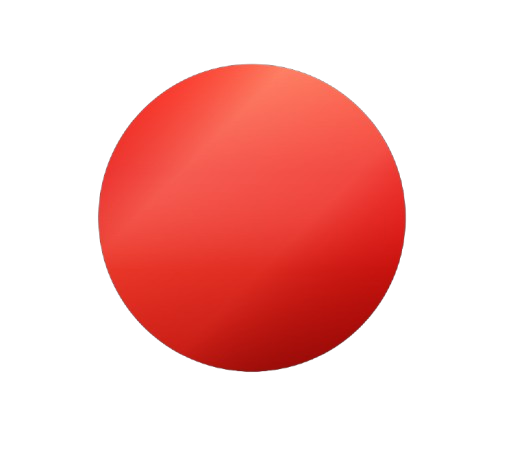
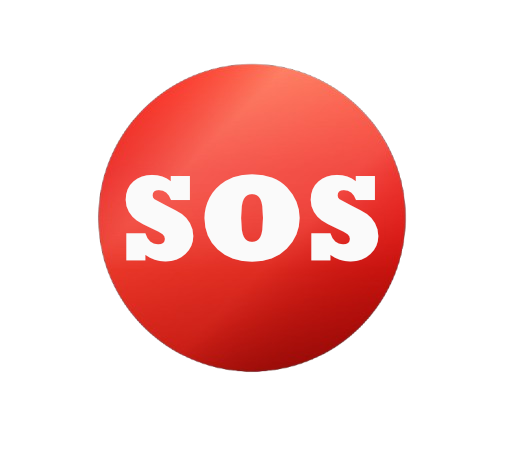
cambios menores

Changed region(s): [[0.2129, 0.3544, 0.73, 0.5612]]

diff --git a/lib/pantalla2_Llamando.dart b/lib/pantalla2_Llamando.dart
@@ -1,0 +1,130 @@
+import 'package:flutter/material.dart';
+
+class Pantalla2Llamando extends StatelessWidget {
+  const Pantalla2Llamando({super.key});
+
+  @override
+  Widget build(BuildContext context) {
+    return Scaffold(
+      appBar: AppBar(
+        title: const Text('Servicio de Emergencia'),
+        backgroundColor: Colors.red,
+        elevation: 5,
+        centerTitle: true,
+      ),
+      body: Column(
+        crossAxisAlignment: CrossAxisAlignment.center,
+        children: [
+          SizedBox(height: 40),
+          Row(
+            mainAxisAlignment: MainAxisAlignment.center,
+            children: [
+              Text(
+                'Emergencia Activada',
+                style: TextStyle(
+                  fontSize: 28,
+                  fontWeight: FontWeight.bold,
+                  color: Colors.red,
+                ),
+              ),
+            ],
+          ),
+          SizedBox(height: 60),
+          Row(
+            mainAxisAlignment: MainAxisAlignment.center,
+            crossAxisAlignment: CrossAxisAlignment.center,
+            children: [
+              Icon(
+                Icons.check_circle,
+                size: 150,
+                color: Colors.green,
+              ),
+            ],
+          ),
+          SizedBox(height: 50),
+          Row(
+            children: [
+              Expanded(flex: 20, child: SizedBox()),
+              Expanded(
+                flex: 80,
+                child: Column(
+                  children: [
+                    Text(
+                      'Llamando a servicios de emergencia...',
+                      style: TextStyle(
+                        fontSize: 18,
+                        fontWeight: FontWeight.bold,
+                        color: Colors.grey.shade800,
+                      ),
+                      textAlign: TextAlign.center,
+                    ),
+                    SizedBox(height: 10),
+                    Text(
+                      'Permanece en esta línea',
+                      style: TextStyle(
+                        fontSize: 15,
+                        color: Colors.grey.shade600,
+                      ),
+                      textAlign: TextAlign.center,
+                    ),
+                  ],
+                ),
+              ),
+              Expanded(flex: 20, child: SizedBox()),
+            ],
+          ),
+          SizedBox(height: 60),
+          ElevatedButton(
+            onPressed: () {
+              showDialog(
+                context: context,
+                builder: (BuildContext context) {
+                  return AlertDialog(
+                    title: Text('¿Seguro que quieres cancelar?'),
+                    content: Text('Se cancelará la llamada a emergencias.'),
+                    actions: [
+                      TextButton(
+                        onPressed: () {
+                          Navigator.pop(context);
+                        },
+                        child: Text(
+                          'No',
+                          style: TextStyle(color: Colors.blue),
+                        ),
+                      ),
+                      TextButton(
+                        onPressed: () {
+                          Navigator.pop(context);
+                          Navigator.pop(context);
+                        },
+                        child: Text(
+                          'Sí, cancelar',
+                          style: TextStyle(color: Colors.red),
+                        ),
+                      ),
+                    ],
+                  );
+                },
+              );
+            },
+            style: ElevatedButton.styleFrom(
+              backgroundColor: Colors.red,
+              padding: EdgeInsets.symmetric(horizontal: 50, vertical: 15),
+              shape: RoundedRectangleBorder(
+                borderRadius: BorderRadius.circular(8),
+              ),
+            ),
+            child: Text(
+              'Cancelar Llamada',
+              style: TextStyle(
+                fontSize: 16,
+                fontWeight: FontWeight.bold,
+                color: Colors.white,
+              ),
+            ),
+          ),
+        ],
+      ),
+    );
+  }
+}

diff --git a/lib/pantalla1_inicio_sos.dart b/lib/pantalla1_inicio_sos.dart
@@ -1,6 +1,6 @@
 import 'package:flutter/material.dart';
 import 'dart:async';
-import 'emergencia.dart';
+import 'pantalla2_Llamando.dart';
 
 class pantalla1 extends StatefulWidget {
   const pantalla1({super.key});
@@ -15,6 +15,12 @@ class _pantalla1State extends State<pantalla1> {
   Timer? timer;
   bool timerActive = false;
   bool countdownFinished = false;
+
+  @override
+  void dispose() {
+    timer?.cancel();
+    super.dispose();
+  }
 
   void startCountdown() {
     countdown = 3;
@@ -31,13 +37,14 @@ class _pantalla1State extends State<pantalla1> {
         setState(() {
           countdownFinished = true;
         });
-        print('¡LLAMAR A EMERGENCIAS!');
         
         Future.delayed(Duration(milliseconds: 500), () {
-          Navigator.push(
-            context,
-            MaterialPageRoute(builder: (context) => PantallaEmergencia()),
-          );
+          if (mounted) {
+            Navigator.push(
+              context,
+              MaterialPageRoute(builder: (context) => const Pantalla2Llamando()),
+            );
+          }
         });
       }
     });
@@ -47,23 +54,29 @@ class _pantalla1State extends State<pantalla1> {
   Widget build(BuildContext context) {
     return Scaffold(
       appBar: AppBar(
-        title: const Text('Aplicación Básica: Botón de Pánico'),
-        backgroundColor: Colors.blueAccent,
+        title: const Text('Botón de Pánico - SOS'),
+        backgroundColor: Colors.red,
+        centerTitle: true,
+        elevation: 5,
       ),
       body: Column(
         crossAxisAlignment: CrossAxisAlignment.center,
         children: [
-          SizedBox(width: 100, height: 50),
+          SizedBox(height: 40),
           Row(
             mainAxisAlignment: MainAxisAlignment.center,
             children: [
               Text(
-                'Botón de Pánico',
-                style: TextStyle(fontSize: 25, fontWeight: FontWeight.bold),
+                'Sistema de Emergencia',
+                style: TextStyle(
+                  fontSize: 28,
+                  fontWeight: FontWeight.bold,
+                  color: Colors.red,
+                ),
               ),
             ],
           ),
-          SizedBox(width: 100, height: 70),
+          SizedBox(height: 60),
           Row(
             mainAxisAlignment: MainAxisAlignment.center,
             crossAxisAlignment: CrossAxisAlignment.center,
@@ -74,7 +87,6 @@ class _pantalla1State extends State<pantalla1> {
                     isPressed = true;
                   });
                   startCountdown();
-                  print('inicio');
                 },
                 onLongPressEnd: (details) {
                   setState(() {
@@ -83,7 +95,6 @@ class _pantalla1State extends State<pantalla1> {
                   });
                   timer?.cancel();
                   timerActive = false;
-                  print('fin');
                 },
                 child: AnimatedScale(
                   duration: Duration(milliseconds: 200),
@@ -98,7 +109,17 @@ class _pantalla1State extends State<pantalla1> {
               ),
             ],
           ),
-          SizedBox(height: 50),
+          SizedBox(height: 30),
+          if (timerActive)
+            Text(
+              countdown.toString(),
+              style: TextStyle(
+                fontSize: 48,
+                fontWeight: FontWeight.bold,
+                color: Colors.red,
+              ),
+            ),
+          if (timerActive) SizedBox(height: 20),
           Row(
             children: [
               Expanded(flex: 20, child: SizedBox()),
@@ -106,7 +127,11 @@ class _pantalla1State extends State<pantalla1> {
                 flex: 80,
                 child: Text(
                   'Mantén presionado por 3 segundos para llamar a emergencias',
-                  style: TextStyle(fontSize: 14, fontWeight: FontWeight.bold),
+                  style: TextStyle(
+                    fontSize: 15,
+                    fontWeight: FontWeight.bold,
+                    color: Colors.grey.shade700,
+                  ),
                   textAlign: TextAlign.center,
                 ),
               ),

diff --git a/test/widget_test.dart b/test/widget_test.dart
@@ -1,0 +1,30 @@
+// This is a basic Flutter widget test.
+//
+// To perform an interaction with a widget in your test, use the WidgetTester
+// utility in the flutter_test package. For example, you can send tap and scroll
+// gestures. You can also use WidgetTester to find child widgets in the widget
+// tree, read text, and verify that the values of widget properties are correct.
+
+import 'package:flutter/material.dart';
+import 'package:flutter_test/flutter_test.dart';
+
+import 'package:proyectofinal_grupo10_basico/main.dart';
+
+void main() {
+  testWidgets('Counter increments smoke test', (WidgetTester tester) async {
+    // Build our app and trigger a frame.
+    await tester.pumpWidget(const MyApp());
+
+    // Verify that our counter starts at 0.
+    expect(find.text('0'), findsOneWidget);
+    expect(find.text('1'), findsNothing);
+
+    // Tap the '+' icon and trigger a frame.
+    await tester.tap(find.byIcon(Icons.add));
+    await tester.pump();
+
+    // Verify that our counter has incremented.
+    expect(find.text('0'), findsNothing);
+    expect(find.text('1'), findsOneWidget);
+  });
+}

diff --git a/lib/main.dart b/lib/main.dart
@@ -1,5 +1,5 @@
 import 'package:flutter/material.dart';
-import 'basico_1.dart';
+import 'pantalla1_inicio_sos.dart';
 
 void main() {
   runApp(const MainApp());
